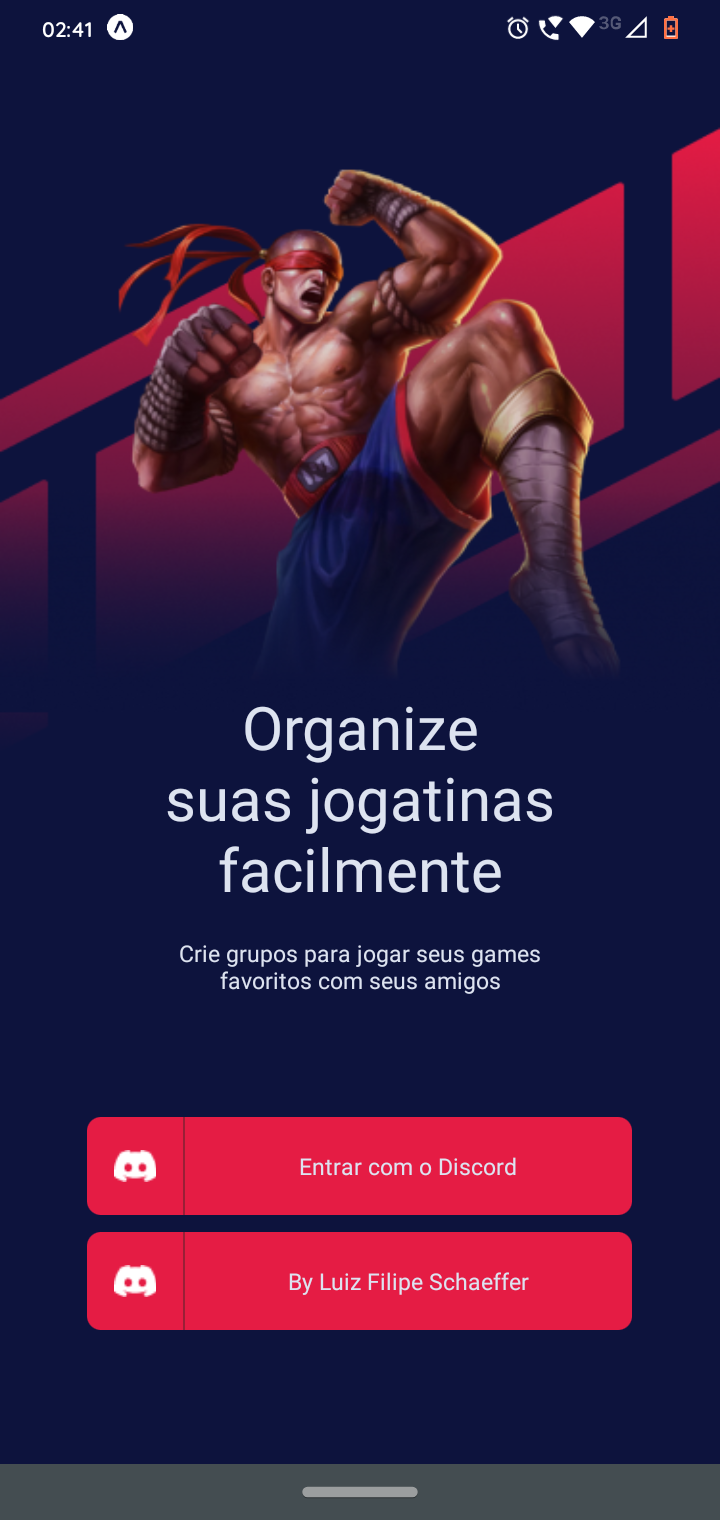
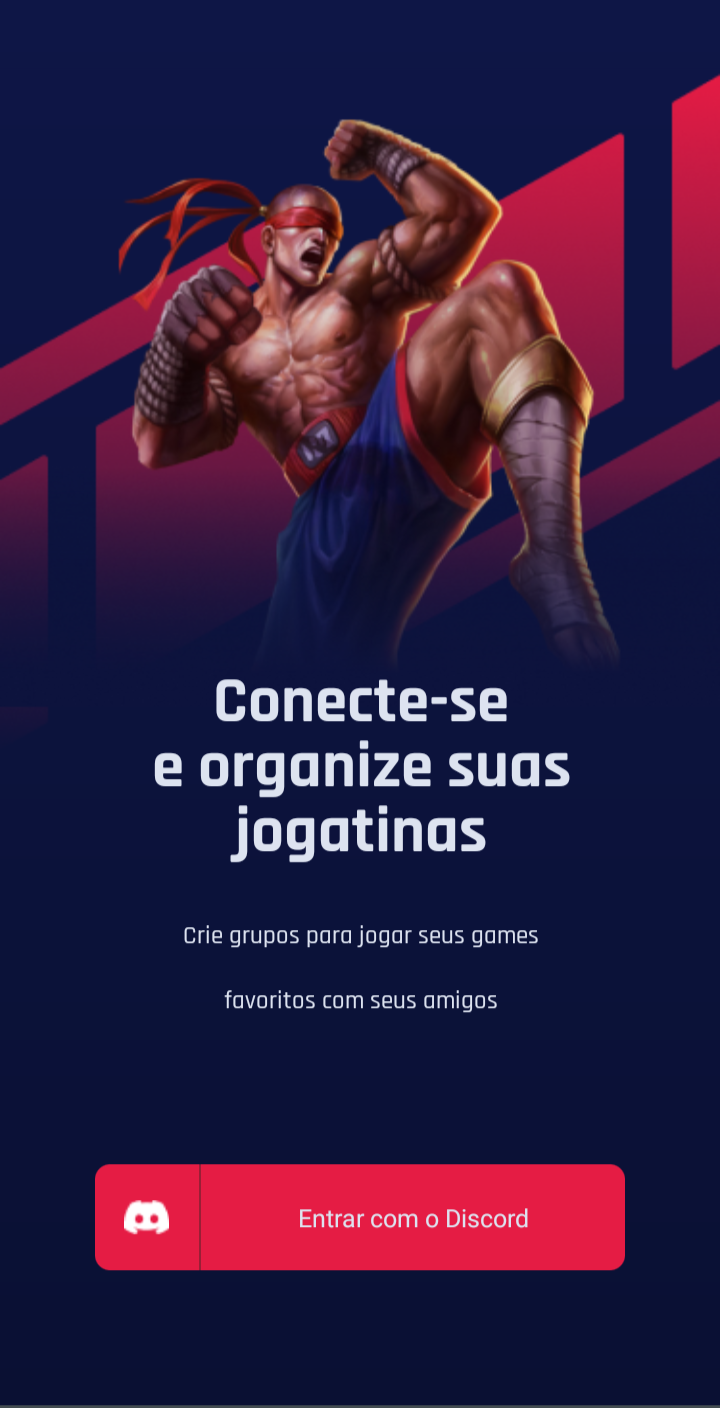
atualização da screen inicial e da img do readme

diff --git a/App.tsx b/App.tsx
@@ -25,7 +25,7 @@ export default function App() {
         backgroundColor="transparent"
         translucent
       />
-      <Home />
+      <SingIn />
     </Backgrounds>
   );
 }
